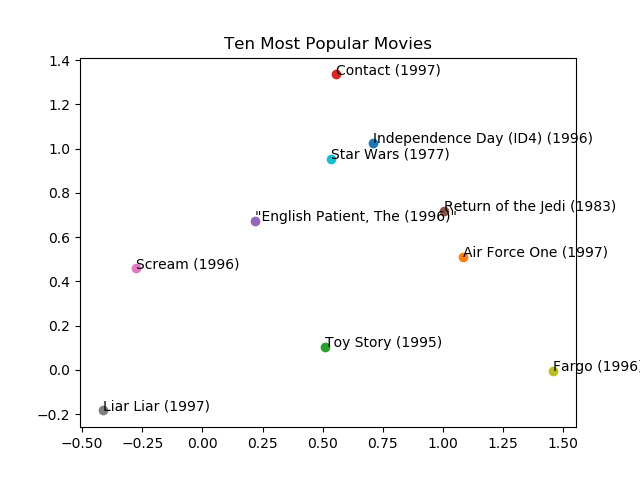
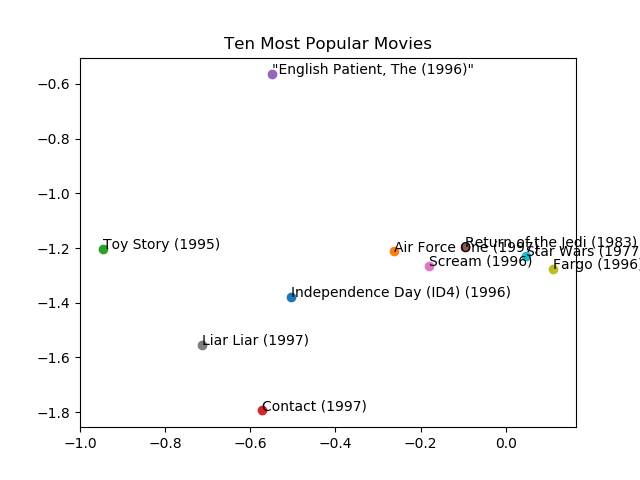
bias method

diff --git a/bias.py b/bias.py
@@ -1,0 +1,61 @@
+import numpy as np
+import pandas as pd
+from surprise import SVD, Dataset, Reader
+from surprise.model_selection import PredefinedKFold
+from matrix_vis import visualization
+
+u_cols = ['movie_id', 'movie_title', 'unknown', 'action', 'adventure', 'animation', 'childrens', 'comedy', 'crime', 'documentary', 'drama', 'fantasy', 'film-noir', 'horror', 'musical', 'mystery', 'romance', 'sci-fi', 'thriller', 'war', 'western']
+# users = pd.read_csv('data/movies.txt', sep='\t', names = u_cols, encoding = 'latin-1')
+
+r_cols = ['user_id', 'movie_id', 'rating']
+reader = Reader(line_format='user item rating', sep='\t')
+data = Dataset.load_from_folds([('data/train.txt', 'data/test.txt')], reader=reader)
+pkf = PredefinedKFold()
+
+for trainset, testset in pkf.split(data):
+    algo = SVD()
+    algo.fit(trainset)
+    u = algo.pu
+    v = algo.qi
+    v = np.transpose(v)
+    print(u.shape)
+    print(v.shape)
+    a, _, _ = np.linalg.svd(v)
+    a = a[:2]
+    vplot = np.dot(a, v)
+    print(vplot.shape)
+
+    movie_ratings = np.genfromtxt("data/summary.txt",  names=True)
+    movie_titles = []
+    movie_data = []
+    with open("data/movies.txt", mode="r", encoding="ISO-8859-1") as f:
+        for line in f:
+            line = line.split("\t")
+            movie_titles.append(line[1])
+            movie_data.append(line[2:])
+    movie_data = np.array(movie_data).astype(int)
+
+    chosen = np.array([1, 2, 5, 10, 50, 100, 200, 500, 1000, 1500])
+    #visualization(users[:,0], users[:,1], vt, "plot", 'plot.png')
+    most_popular = np.argpartition(movie_ratings['num_ratings'], -10)[-10:].tolist()
+    best_rated = np.argpartition(
+        movie_ratings['average_rating'], -10)[-10:].tolist()
+    #best_rated = np.argpartition(ratings['average_rating'], -10)[-10:].tolist()
+    genres = [1, 3, 5]
+    # (a) Any ten movies
+    visualization(np.array(chosen), movie_titles, vplot, "Ten Movies of Choice", "5_3_a.png")
+    # (b) Ten most popular movies
+    visualization(most_popular, movie_titles, vplot, "Ten Most Popular Movies", "5_3_b.png")
+    # (c) Ten best movies 
+    visualization(best_rated, movie_titles, vplot, "Ten Best Movies", "5_3_c.png")
+    # (d) Ten movies from selected genres.
+
+    for i in genres:
+        movie_ids = []
+        for j in range(len(movie_data)):
+            if movie_data[j][i] == 1:
+                # print(users[:,1][j])
+                # print(movie_data[j])
+                movie_ids.append(j)
+        visualization(movie_ids[:10], movie_titles, vplot, 
+            "Ten %s Movies" % u_cols[i + 2], "5_3_d_%d.png" % i)

diff --git a/miniproj2.py b/miniproj2.py
@@ -80,10 +80,12 @@ reg = 0.01
 # Generate V-tilde using all 3 methods. 
 # Method 1.
 U1, V1, _ = train_model(m, n, k, eta, reg, train)
+print(V1.shape)
 test_err1 = get_err(U1, V1, test, reg)
 a, _, _ = np.linalg.svd(V1)
 a = a[:2]
 V1_plot = np.dot(a, V1)
+print(V1_plot.shape)
 
 # Method 2. 
 
